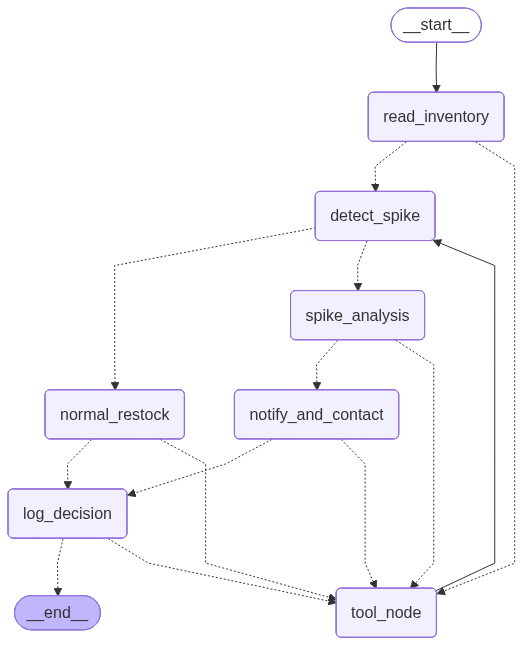
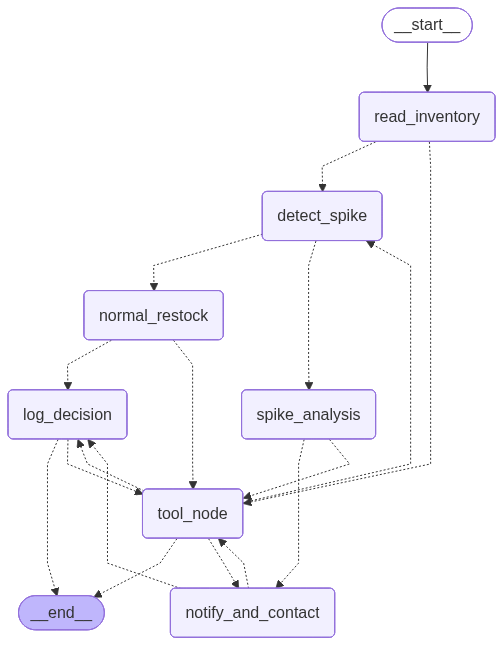
test with success inventory_graph

diff --git a/backend/app/graph/inventory_graph.py b/backend/app/graph/inventory_graph.py
@@ -1,20 +1,5 @@
 """
 ingestion_graph.py — Inventory Import Analysis flowchart
-
-Covers the second column of the draw.io diagram:
-  Start
-  → get_business_state (get current inventory + price history)
-  → Price spike > 20% vs history?
-      Yes → evaluate_supply_chain_options → simulate_yield_scenario
-           → send_human_notification (Notify operator)
-           → contact_supplier (Email/WhatsApp/Telegram)
-           → execute_operational_action (CREATE_PO)
-           → log decision + trace
-      No  → execute_operational_action (INVENTORY_ADJUST — normal restock)
-           → log decision + trace
-
-Triggered by: parse_unstructured_signal output (invoice OCR, WhatsApp text)
-The caller passes the parsed signal as the first HumanMessage.
 """
 
 from typing import Annotated, TypedDict, Literal
@@ -24,10 +9,16 @@ from langgraph.graph.message import add_messages
 from langgraph.prebuilt import ToolNode
 
 from app.tools.mcp_tools_call import get_all_lc_tools
-from app.core.glm_client import GLMClient
+from langchain_openai import ChatOpenAI
+import os
 
-get_glm = lambda: GLMClient()
-
+def get_glm() -> ChatOpenAI:
+    return ChatOpenAI(
+        model=os.getenv("GLM_MODEL", "glm-4-plus"),
+        api_key=os.getenv("GLM_API_KEY"),
+        base_url=os.getenv("GLM_BASE_URL"),
+        temperature=0.3,
+    )
 
 # ─────────────────────────────────────────────
 # State
@@ -41,7 +32,8 @@ class IngestionState(TypedDict):
     # Execution tracking
     supplier_contacted: bool
     action_logged: bool
-
+    pending_handler: str
+    final_response: str
 
 # ─────────────────────────────────────────────
 # System prompt
@@ -76,7 +68,7 @@ Identify which item the signal refers to and note its current stored unit_cost."
 
     response = llm.invoke([SystemMessage(content=INGESTION_SUPERVISOR_PROMPT),
                            SystemMessage(content=prompt)] + state["messages"])
-    return {**state, "messages": [response]}
+    return {**state, "messages": [response],"pending_handler" : "read_inventory"}
 
 
 # ─────────────────────────────────────────────
@@ -160,7 +152,7 @@ Follow this sequence:
 
     response = llm.invoke([SystemMessage(content=INGESTION_SUPERVISOR_PROMPT),
                            SystemMessage(content=prompt)] + state["messages"])
-    return {**state, "messages": [response]}
+    return {**state, "messages": [response],"pending_handler" : "spike_analysis"}
 
 
 # ─────────────────────────────────────────────
@@ -184,7 +176,7 @@ Call execute_operational_action with:
 
     response = llm.invoke([SystemMessage(content=INGESTION_SUPERVISOR_PROMPT),
                            SystemMessage(content=prompt)] + state["messages"])
-    return {**state, "messages": [response]}
+    return {**state, "messages": [response],"pending_handler" : "normal_restock"}
 
 
 # ─────────────────────────────────────────────
@@ -218,7 +210,7 @@ Call contact_supplier with:
 
     response = llm.invoke([SystemMessage(content=INGESTION_SUPERVISOR_PROMPT),
                            SystemMessage(content=prompt)] + state["messages"])
-    return {**state, "messages": [response], "supplier_contacted": True}
+    return {**state, "messages": [response], "supplier_contacted": True,"pending_handler" : "notify_and_contact"}
 
 
 # ─────────────────────────────────────────────
@@ -252,12 +244,32 @@ This closes the audit trail for this ingestion event."""
 
     response = llm.invoke([SystemMessage(content=INGESTION_SUPERVISOR_PROMPT),
                            SystemMessage(content=prompt)] + state["messages"])
-    return {**state, "messages": [response], "action_logged": True}
+    return {**state, "messages": [response], "action_logged": True, "pending_handler" : "log_decision"}
 
 
 # ─────────────────────────────────────────────
 # Routing functions
 # ─────────────────────────────────────────────
+def route_after_tools(state: IngestionState) -> str:
+    handler = state.get("pending_handler", "read_inventory")
+
+    if handler == "read_inventory":
+        return "detect_spike"
+
+    if handler == "spike_analysis":
+        return "notify_and_contact"
+
+    if handler == "normal_restock":
+        return "log_decision"
+
+    if handler == "notify_and_contact":
+        return "log_decision"
+
+    if handler == "log_decision":
+        return END
+
+    return END
+
 def route_tools_ingestion(state: IngestionState) -> str:
     """Standard tool-call checker. Routes to tool_node if LLM requested tools."""
     last = state["messages"][-1]
@@ -313,49 +325,51 @@ def route_after_log(state: IngestionState) -> str:
 def build_ingestion_graph():
     builder = StateGraph(IngestionState)
 
-    builder.add_node("read_inventory",      read_inventory_node)
-    builder.add_node("detect_spike",        detect_spike_node)
-    builder.add_node("spike_analysis",      spike_analysis_node)
-    builder.add_node("normal_restock",      normal_restock_node)
-    builder.add_node("notify_and_contact",  notify_and_contact_node)
-    builder.add_node("log_decision",        log_decision_node)
-    builder.add_node("tool_node",           ToolNode(get_all_lc_tools()))
+    builder.add_node("read_inventory", read_inventory_node)
+    builder.add_node("detect_spike", detect_spike_node)
+    builder.add_node("spike_analysis", spike_analysis_node)
+    builder.add_node("normal_restock", normal_restock_node)
+    builder.add_node("notify_and_contact", notify_and_contact_node)
+    builder.add_node("log_decision", log_decision_node)
+    builder.add_node("tool_node", ToolNode(get_all_lc_tools()))
 
     builder.add_edge(START, "read_inventory")
 
     builder.add_conditional_edges("read_inventory", route_after_read, {
-        "tool_node":    "tool_node",
+        "tool_node": "tool_node",
         "detect_spike": "detect_spike",
     })
 
-    # tool_node after read_inventory loops back to detect_spike
-    # We use a node-level source map for tool_node routing per caller
-    # (simplified: tool_node → detect_spike, since read_inventory is the only pre-detect caller)
-    builder.add_edge("tool_node", "detect_spike")
+    builder.add_conditional_edges("tool_node", route_after_tools, {
+        "detect_spike": "detect_spike",
+        "notify_and_contact": "notify_and_contact",
+        "log_decision": "log_decision",
+        END: END,
+    })
 
     builder.add_conditional_edges("detect_spike", route_after_spike_detect, {
-        "spike_analysis":  "spike_analysis",
-        "normal_restock":  "normal_restock",
+        "spike_analysis": "spike_analysis",
+        "normal_restock": "normal_restock",
     })
 
     builder.add_conditional_edges("spike_analysis", route_after_spike_analysis, {
-        "tool_node":          "tool_node",
+        "tool_node": "tool_node",
         "notify_and_contact": "notify_and_contact",
     })
 
     builder.add_conditional_edges("normal_restock", route_after_normal_restock, {
-        "tool_node":    "tool_node",
+        "tool_node": "tool_node",
         "log_decision": "log_decision",
     })
 
     builder.add_conditional_edges("notify_and_contact", route_after_notify, {
-        "tool_node":    "tool_node",
+        "tool_node": "tool_node",
         "log_decision": "log_decision",
     })
 
     builder.add_conditional_edges("log_decision", route_after_log, {
         "tool_node": "tool_node",
-        END:         END,
+        END: END,
     })
 
     return builder.compile()

diff --git a/backend/test_graph.py b/backend/test_graph.py
@@ -4,7 +4,7 @@ test_graphs.py — Test runner for all 4 agent graphs
 Usage:
     python test_graphs.py                    # runs all tests
     python test_graphs.py assistant          # runs only assistant graph tests
-    python test_graphs.py ingestion          # runs only ingestion graph tests
+    python test_graphs.py inventory          # runs only ingestion graph tests
     python test_graphs.py proactive          # runs only proactive graph tests
     python test_graphs.py forecast           # runs only forecast graph tests
 """
@@ -195,7 +195,7 @@ async def test_assistant_graph():
 # INGESTION GRAPH TESTS
 # ─────────────────────────────────────────────
 async def test_ingestion_graph():
-    header("Ingestion Graph")
+    header("Inventory Graph")
 
     from app.graph.inventory_graph import get_ingestion_graph
     graph = get_ingestion_graph()
@@ -211,10 +211,11 @@ async def test_ingestion_graph():
         }
 
     # ── Test 1: Normal restock — price within range
+    # ** Test with success
     state = await stream_graph(
         graph,
         make_state(
-            "Invoice from FreshMarine: 10kg salmon at RM87/kg. "
+            "Invoice from Oceanic Seafood Supply: 10kg salmon at RM87/kg. "
             "Current stored cost is RM85/kg. Delivery date: tomorrow."
         ),
         "Normal restock — price within 20% threshold"
@@ -231,10 +232,11 @@ async def test_ingestion_graph():
         warn("Action not logged — check log_decision_node")
 
     # ── Test 2: Price spike — >20% should trigger supplier evaluation
+    # ** Test with success
     state = await stream_graph(
         graph,
         make_state(
-            "WhatsApp from supplier: salmon price increased to RM115/kg due to shortage. "
+            "Email from supplier: salmon price increased to RM115/kg due to shortage. "
             "Current stored unit cost is RM85/kg. They can deliver 20kg tomorrow."
         ),
         "Price spike — 35% above stored cost (supplier eval + notify expected)"
@@ -473,7 +475,7 @@ async def test_forecast_graph():
 # ─────────────────────────────────────────────
 GRAPH_MAP = {
     "assistant": test_assistant_graph,
-    "ingestion":  test_ingestion_graph,
+    "inventory":  test_ingestion_graph,
     "proactive":  test_proactive_graph,
     "forecast":   test_forecast_graph,
 }

diff --git a/backend/app/tools/tools.py b/backend/app/tools/tools.py
@@ -596,20 +596,29 @@ async def generate_post_mortem_learning(params: GeneratePostMortemLearningInput)
     except Exception as e:
         print(f"RPC match_knowledge_base failed (fallback to insert): {e}")
     
-    if similar.data and similar.data[0]["similarity"] > 0.9:
-        best_match = similar.data[0]
-        supabase.table("knowledge_base").update({
-            "lesson_learned": lesson
-        }).eq("id", best_match["id"]).execute()
-        return GeneratePostMortemLearningOutput(lesson_learned=lesson, embedding_id=best_match["id"], strategy_adjustment=strategy, similarity_score=best_match["similarity"])
+    if similar.data:
 
-    supabase.table("knowledge_base").insert({
-        "embedding_vector": embedding, 
-        "scenario_description": lesson, 
-        "lesson_learned": strategy, 
-        "performance_score": 0.85,
-        "created_at": get_current_simulated_time().isoformat()
-    }).execute()
+        sim_val = similar.data[0].get("similarity", 0)
+
+        try:
+            similarity = float(sim_val)
+        except (TypeError, ValueError):
+            similarity = 0.0
+
+        if similarity > 0.9:
+            best_match = similar.data[0]
+            supabase.table("knowledge_base").update({
+                "lesson_learned": lesson
+            }).eq("id", best_match["id"]).execute()
+            return GeneratePostMortemLearningOutput(lesson_learned=lesson, embedding_id=best_match["id"], strategy_adjustment=strategy, similarity_score=best_match["similarity"])
+
+        supabase.table("knowledge_base").insert({
+            "embedding_vector": embedding, 
+            "scenario_description": lesson, 
+            "lesson_learned": strategy, 
+            "performance_score": 0.85,
+            "created_at": get_current_simulated_time().isoformat()
+        }).execute()
     
     return GeneratePostMortemLearningOutput(
         lesson_learned=lesson,
